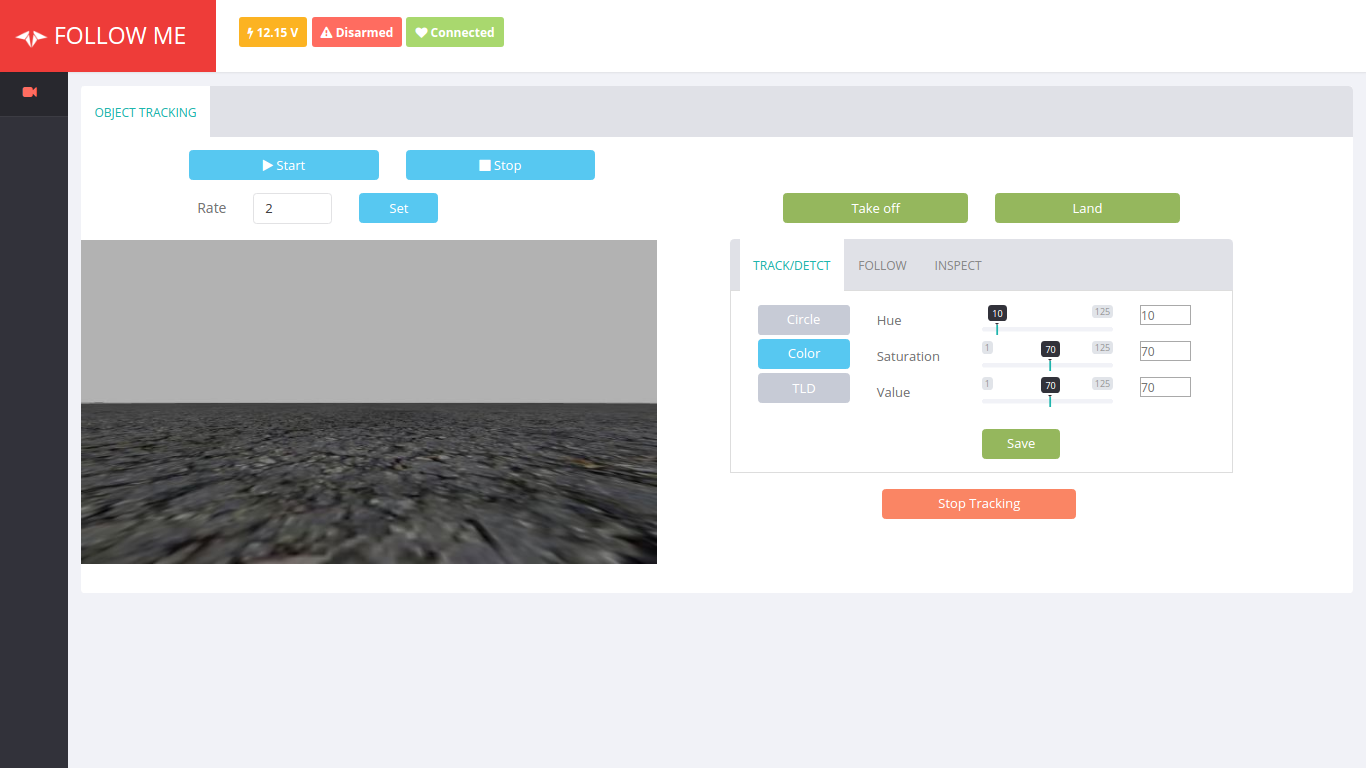
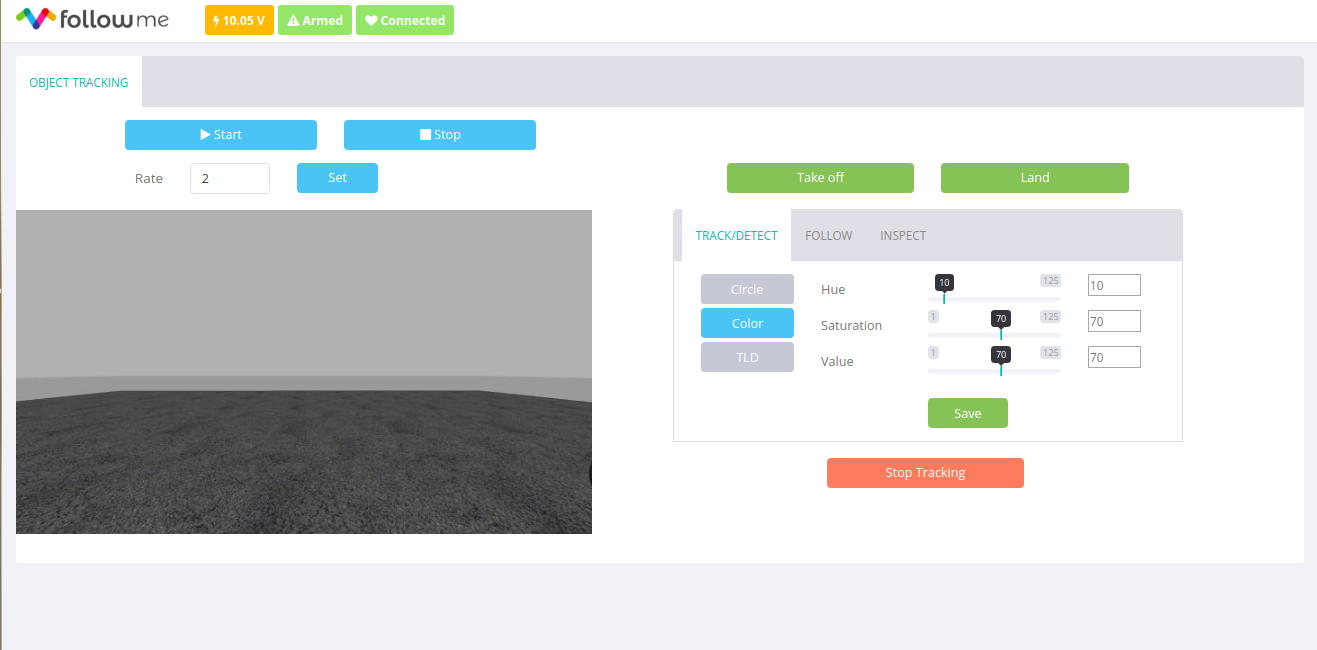
Some chnges made flytconsole nad calibration section like remove flytpod word and screen shots as well.

Changed region(s): [[0.0, 0.0, 0.9962, 1.0], [0.6849, 0.5231, 0.716, 0.5538]]

diff --git a/source/docs/FlytConsole/FlytConsole.rst b/source/docs/FlytConsole/FlytConsole.rst
@@ -13,16 +13,12 @@ FlytConsole - Widgets
 Connect to FlytConsole
 """"""""""""""""""""""
 
-FlytPOD is shipped with WiFi set to Hotspot(AP mode) with WiFi SSID and password FlytPOD123. If the device running FlytOS is connected to your home network, open the link below in your browser to launch FlytConsole after connecting your personal system to the same network as the device running FlytOS.
+To Launch FlytConsole enter the following address in your browser.
+** if you are trying to open flytconsole on a device other than Companion Computer(device running FlytOS) make sure you are on the same network as of the Companion Computer 
 
-* http://flytpod/flytconsole
+.. code-block:: c
 
-.. * https://flytpod/flytconsole
-
-
-
-
-.. important:: In case the above URLs do not work replace ``flytpod`` with ``FlytPOD's IP address``.
+		<Companion Computer's IP address>/flytconsole
 
 .. The various components included in FlytConsole are as follows:
 
@@ -108,7 +104,7 @@ ESC Calibration requires the following fields to be filled:
 2. Max PWM Value
 3. Number of Actuators
          
-The Min and the Max PWM values set the range of the expected values from FlytPOD/PRO to the ESCs. Any value received from the RC beyond this range is converted to the min or max value. Number of actuators is the number of motors depending upon the airframe selected by you in Frame Select. FlytConsole consists of some predefined default values that can be changed. 
+The Min and the Max PWM values set the range of the expected values from AUTOPILOT to the ESCs. Any value received from the RC beyond this range is converted to the min or max value. Number of actuators is the number of motors depending upon the airframe selected by you in Frame Select. FlytConsole consists of some predefined default values that can be changed. 
 
 .. figure:: /_static/Images/escStage0.png
 	:align: center
@@ -215,7 +211,7 @@ Sensor Calibration
    
 
 
-Sensor calibration is of utmost importance before you fly your drone. The sensors to be calibrated for correct attitude are given below:
+Sensor calibration is of utmost importance before you fly your drone. Set the ``AUTOPILOT ORIENTATION`` & ``EXTERNAL MAG ORIENTATION`` if the orientation of the frame and AUTOPILOT are different. The sensors to be calibrated for correct attitude are given below:
 
 
 .. 1. Accelerometer Calibration 
@@ -228,11 +224,7 @@ Sensor calibration is of utmost importance before you fly your drone. The sensor
 
 **Accelerometer Calibration**
 
-Set the ``AUTOPILOT ORIENTATION`` if the orientation of the frame and FlytPOD are different. Click on **Start Accel Calibration** to begin.
-
-.. figure:: /_static/Images/AccelCalibration.png
-	:align: center
-	:scale: 50 %
+Click on **Accel Calibration** to begin.
 
 Hold the drone steady in all the six directions( x, -x, y, -y, z, -z) for sometime. You will be notified when the current orientation is detected and when calibration begins for that orientation. Keep steady till you are notified to change to a new direction.
 
@@ -244,11 +236,7 @@ Hold the drone steady in all the six directions( x, -x, y, -y, z, -z) for someti
 
 **Gyroscope Calibration**
 
-Set the ``AUTOPILOT ORIENTATION`` if the orientation of the frame and FlytPOD are different. Click on **Start Gyro Calibration** to begin.
-
-.. figure:: /_static/Images/GyroCalibration.png
-	:align: center
-	:scale: 50 %
+Click on **Gyro Calibration** to begin.
 
 Keep the drone steady without movement in a single state till the calibration ends. You will be notified when the calibration ends.
 
@@ -258,12 +246,7 @@ Keep the drone steady without movement in a single state till the calibration en
 
 **Magnetometer Calibration**
 
-Set the ``AUTOPILOT ORIENTATION`` if the orientation of the frame and FlytPOD are different. Click on **Start Mag Calibration** to begin.
-
-.. figure:: /_static/Images/MagCalibration.png
-	:align: center
-	:scale: 50 %
-
+Click on **Mag Calibration** to begin.
 
 You need to calibrate magnetometer every time you change the flying field. If your autopilot orientation is not the same as that of your drone, update ``AUTOPILOT ORIENTATION`` parameter accordingly. Similarly, if your external magnetometer's orientation differs from FlytPOD's heading, update ``EXT MAG ROTATION`` parameter.
 This is similar to Accelerometer Calibration with an additional step of rotating the drone in vertical axis in every orientation
@@ -275,11 +258,7 @@ thereby covering all six directions.
 
 **Level calibration**
 
-Set the ``AUTOPILOT ORIENTATION`` if the orientation of the frame and FlytPOD are different. Click on **Start Level calibration** to begin.
-
-.. figure:: /_static/Images/LevelCalibration.png
-	:align: center
-	:scale: 50 %
+Click on **Level calibration** to begin.
 
 Keep the drone steady in flat position on a levelled surface on the floor.
 
@@ -544,18 +523,18 @@ Flyt Inspector streams live data from the drone.
 
 Following data is streamed from the drone:
 
-1. Battery - gives the voltage and current consumed by the FlytPOD.
+1. Battery - gives the voltage and current consumed by the System.
 2. GPS - gives the current latitude, longitude and altitude of the drone.
 3. IMU - gives the current attitude with respect to NED.
 4. Local Position - gives the position of the drone with respect to the home position.
-5. RC IN - gives the input value received by FlytPOD because of RC.
+5. RC IN - gives the input value received by AUTOPILOT because of RC.
 
 You have now finished configuration. Please go through the :ref:`First principles of flying<First_Principles>` and :ref:`First flight with FlytPOD<First_Flight>` sections before you proceed with flying your drone and make sure you understand all the :ref:`Safety guidelines<Safety_Guidelines>`.
 
 
 .. It is recommended to use the RC when testing for the first time.
-.. If the RC is not connected, FlytPOD will go to API_Mode by default. Use API_mode switch to control drone from RC.
-.. Before you arm the FlytPOD make sure that the position of the propellers is correct i.e. anticlockwise and clockwise propellers are mounted on the right motors.
+.. If the RC is not connected, AUTOPILOT will go to API_Mode by default. Use API_mode switch to control drone from RC.
+.. Before you arm the System make sure that the position of the propellers is correct i.e. anticlockwise and clockwise propellers are mounted on the right motors.
     
     .. warning:: Have a RC pilot ready to take control even if you are flying in API mode in case of emergency.
 

diff --git a/source/docs/FlytOS/GettingStarted/ReadytouseApps/CameraSettings.rst b/source/docs/FlytOS/GettingStarted/ReadytouseApps/CameraSettings.rst
@@ -3,35 +3,33 @@
 Camera Settings
 ================
 
-By default FlytOS automatically connects to any camera available at ‘/dev/video0’ when it is booting up. If you connected the camera after FlytOS was launched then launch the cam_api as shown below 
+During bootup FlytOS automatically connects to any camera device available at port '/dev/video0'. If you connect the camera after FlytOS was launched you'll have to manually launch the cam_api using the commands given below:
 
 .. code-block:: bash
 
 		$ export ROS_NAMESPACE=<namespace>
 
-
 .. code-block:: bash
 
 		$ roslaunch vision_apps cam_api.launch
 		
+If you have attached a single camera it’s detected as /dev/video0. If you have attached multiple cameras you will have multiple devices detected namely ‘/dev/video0’, ‘/dev/video1’, ‘/dev/video2’ and so on
 
-If a single camera is attached it’s detected as /dev/video0. If you have attached multiple cameras you will have multiple devices detected namely ‘/dev/video0’, ‘/dev/video1’, ‘/dev/video2’ and so on
-
-To check the list of camera devices attached you can use this command in your terminal :
+You can check the list of cameras attached using the command below in your terminal :
 
 .. code-block:: bash
 
 		$ ls /dev/video*
 		
 
-By default FlytOS uses the device present at /dev/video0. In case you have multiple camera devices attached and you wish to use devices other than /dev/video0 you will have to make changes in file
+By default FlytOS uses the device present at /dev/video0. In case you have multiple camera devices attached and you wish to use devices other than /dev/video0 you will have to make change in file
 
 .. code-block:: bash
 
 		/flyt/flytos/flytcore/share/vision_apps/launch/cam_api.launch
 		
 
-In case you want to change the camera capture settings you’ll have to make changes in the launch file mentioned above.
+Also, if you want to change the camera capture settings you’ll have to make changes in the launch file mentioned above.
 Various camera capture settings such as resolution, frame rate, brightness, pixel format can be changed by making edits in this launch file. 
 
 If you wish to calibrate your camera and use it for your application refer here “http://wiki.ros.org/camera_calibration”. Once you have obtained the camera calibration file,
@@ -54,12 +52,10 @@ To get raspi cam enabled, run the following command
 
 		$ sudo apt-get update
 		
-
 .. code-block:: bash
 
 		$ sudo apt-get upgrade
 		
-
 .. code-block:: bash
 
 		$ sudo raspi-config

diff --git a/source/docs/FlytOS/GettingStarted/ReadytouseApps/JoystickApp.rst b/source/docs/FlytOS/GettingStarted/ReadytouseApps/JoystickApp.rst
@@ -4,15 +4,15 @@ Joystick App
 ============
 
 1. Download Flyt Joystick android app from `here <https://downloads.flytbase.com/flytos/downloads/apk/Flyt-Joystick-mode-2.apk>`__.
-2. Alternatively you can use joystik web app on your laptop. Download Flyt Joystick web app on your laptop from `here <https://downloads.flytbase.com/flytos/downloads/webApps/Joystick.zip>`_. Enter into the directory and open index.html into browser.
-3. Connect your mobile / laptop to same wifi network that your companion computer / FlytPOD is connected to.
+2. Alternatively you can use joystick web app on your laptop. Download Flyt Joystick web app on your laptop from `here <https://downloads.flytbase.com/flytos/downloads/webApps/Joystick.zip>`_. Enter into the directory and open index.html into browser.
+3. Connect your mobile / laptop to same wifi network that your companion computer(Device running FlytOS) is connected to.
 
 .. image:: /_static/Images/app-login-screen.jpg
   :align: center
 
-4. Enter IP address of the companion computer / FlytPOD in the app and click connect.
+4. Enter IP address of the companion computer in the app and click connect.
 5. Switch to OFFBOARD/API-POSCTL mode using the offboard switch on RC.
-6. Now the Joystik app should have the control.
+6. Now the Joystick app should have the control.
 7. Give the drone take-off command using the takeoff button. Try moving the drone using buttons on app.
 
 .. image:: /_static/Images/app-screen.jpg

diff --git a/source/docs/FlytOS/GettingStarted/ReadytouseApps/VideoStreamingApp.rst b/source/docs/FlytOS/GettingStarted/ReadytouseApps/VideoStreamingApp.rst
@@ -5,14 +5,14 @@ Video Streaming App
 
 1. Download Flyt Cam android app from `here <https://downloads.flytbase.com/flytos/downloads/apk/Flyt-Cam.apk>`__.
 2. Alternatively you can use video web app on your laptop. Download Flyt Cam web app on your laptop from `here <https://downloads.flytbase.com/flytos/downloads/webApps/Video_Streaming.zip>`_. Enter into the directory and open index.html into browser.
-3. Connect your mobile / laptop to same wifi network that your companion computer / FlytPOD is connected to.
+3. Connect your mobile / laptop to same wifi network that your companion computer(device running FlytOS) is connected to.
 
 .. image:: /_static/Images/video-login-screen.png
   :align: center 
 
 |br|
 
-4. Enter IP address of the companion computer / FlytPOD in the app and click connect.
+4. Enter IP address of the companion computer in the app and click connect.
 5. Now the Flyt Cam app should be connected.
 6. Select the video topic to view, from the drop down list and click on the play button. 
 7. You should see a video feed pop up below.

diff --git a/source/docs/FlytOS/GettingStarted/ReadytouseApps/VisualFollowMeApp.rst b/source/docs/FlytOS/GettingStarted/ReadytouseApps/VisualFollowMeApp.rst
@@ -3,7 +3,7 @@
 Visual Follow Me
 ================
 
-Visual Follow Me is an onboard web app that comes bundled with FlytOS (placed in /flyt/flytapps/web/flytfollowme). This app talks to the onboard Object Tracking module using its FlytAPIs. To open this app, connect to your FlytPOD (or other device running FlytOS) from a browser and go to URL 
+Visual Follow Me is an onboard web app that comes bundled with FlytOS (placed in /flyt/flytapps/web/flytfollowme). This app talks to the onboard Object Tracking module using its FlytAPIs. To open this app, connect to your device running FlytOS from a browser and go to URL 
 
 
 
